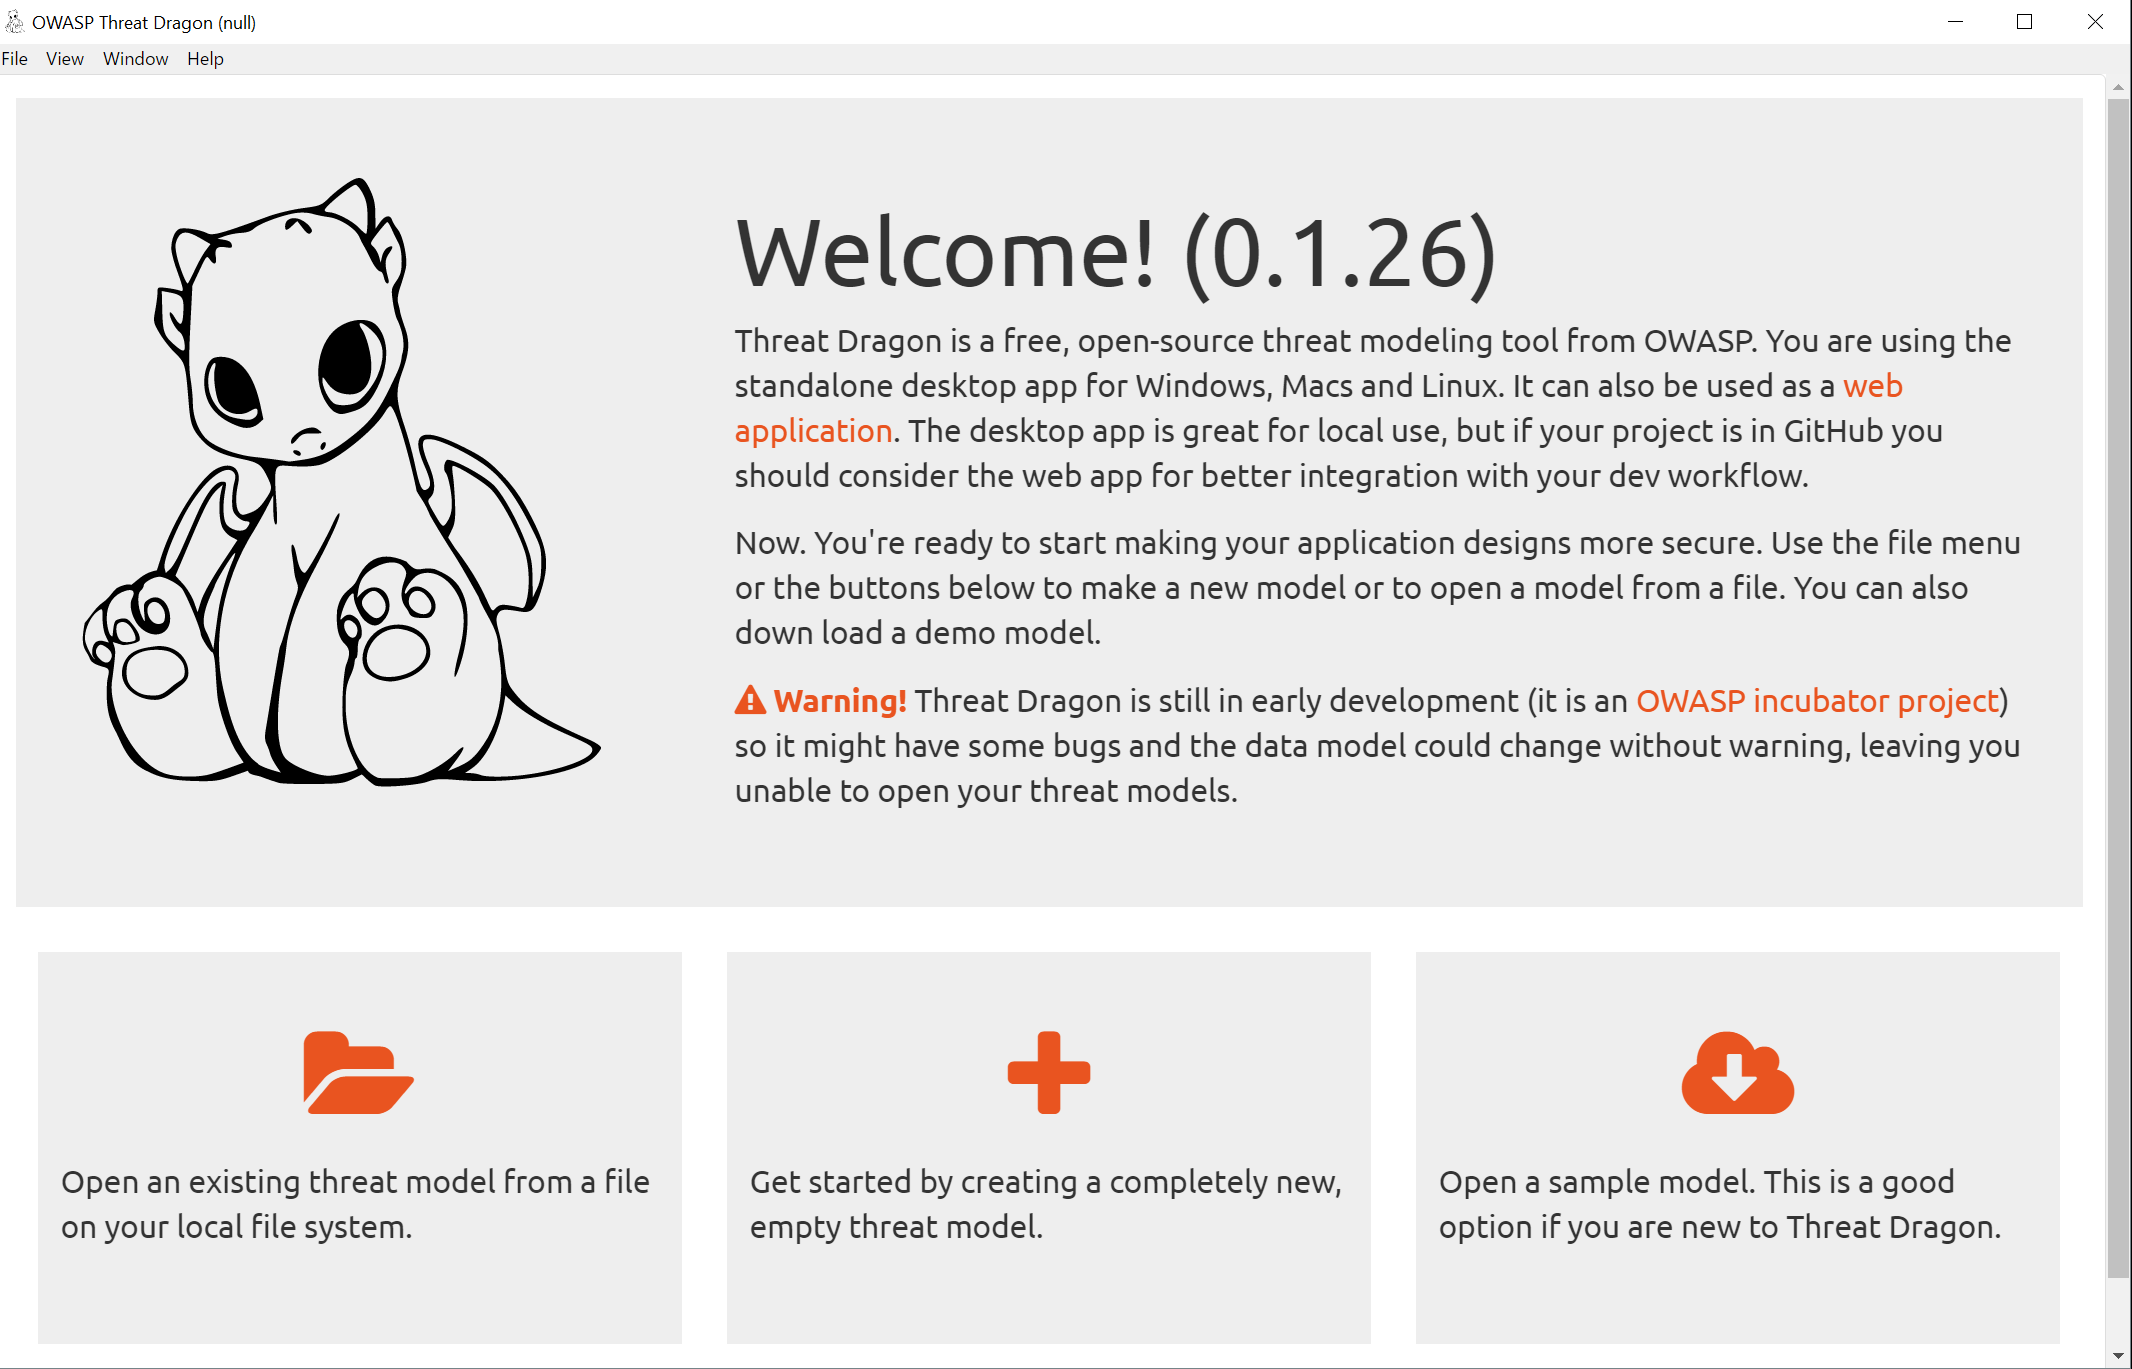
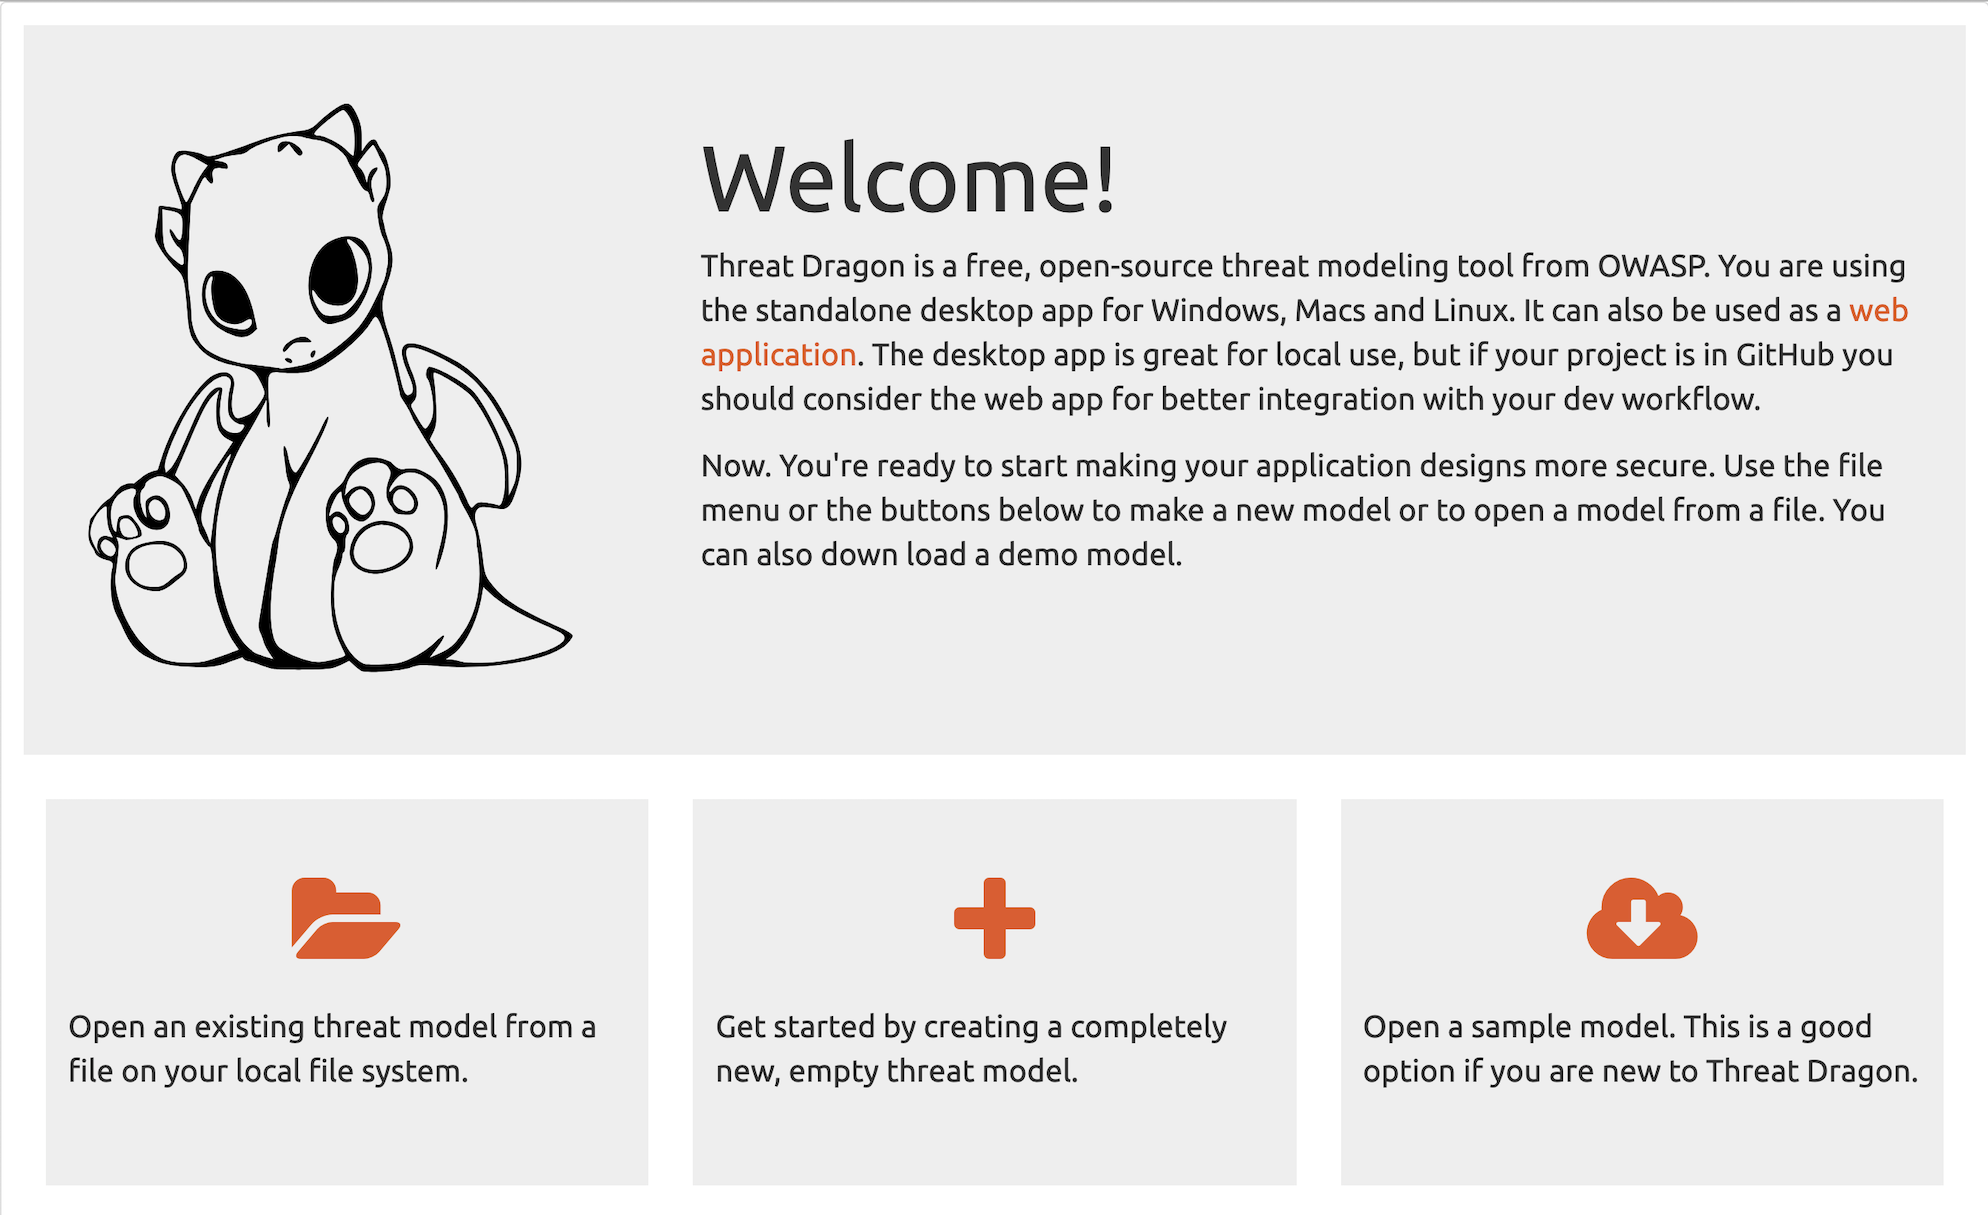
removed warning message from text and screenshot

diff --git a/app/welcome/welcome.html b/app/welcome/welcome.html
@@ -2,7 +2,7 @@
     <row>
         <div class="jumbotron container-fluid">
             <div class="col-md-4">
-                <img class="img-responsive" src="./content/images/threatdragon_logo_image.svg" />
+                <img class="img-responsive" src="./content/images/threatdragon_logo_image.svg" alt="Threat Dragon Logo" />
             </div>
             <div class="col-md-8">
                 <h1>Welcome!</h1>
@@ -15,12 +15,6 @@
                 <p>
                     Now. You're ready to start making your application designs more secure. Use the file menu or the buttons below to make a
                     new model or to open a model from a file. You can also down load a demo model.
-                </p>
-                <p>
-                    <icon class="fa fa-exclamation-triangle text-primary"></icon> <strong class="text-primary">Warning!</strong> Threat Dragon is still in early development (it
-                    is an <a target="_blank" href="https://www.owasp.org/index.php/OWASP_Threat_Dragon">
-                OWASP incubator project</a>) so it might have some bugs and the data model could change without warning,
-                    leaving you unable to open your threat models.
                 </p>
             </div>
         </div>

diff --git a/README.md b/README.md
@@ -8,9 +8,13 @@
 
 # [OWASP](https://www.owasp.org) Threat Dragon #
 
-Threat Dragon is a free, open-source, cross-platform [threat modeling](https://www.owasp.org/index.php/Category:Threat_Modeling) application including system diagramming and a rule engine to auto-generate threats/mitigations. It is an [OWASP Incubator Project](https://www.owasp.org/index.php/OWASP_Threat_Dragon). The focus of the project is on great UX, a powerful rule engine and integration with other development lifecycle tools.
+Threat Dragon is a free, open-source, cross-platform [threat modeling](https://owasp.org/www-community/Threat_Modeling)
+application including system diagramming and a rule engine to auto-generate threats/mitigations. It is an
+[OWASP Incubator Project](https://owasp.org/www-project-threat-dragon/). The focus of the project is on great UX,
+a powerful rule engine and integration with other development lifecycle tools.
 
-There is a good overview of [threat modeling and risk assessment](https://www.owasp.org/index.php/Application_Threat_Modeling) from OWASP, and this expands on what Threat Dragon will achieve: 
+There is a good overview of [threat modeling and risk assessment](https://owasp.org/www-community/Application_Threat_Modeling)
+from OWASP, and this expands on what Threat Dragon will achieve: 
 * designing the data flow diagram
 * automatic determining and ranking threats
 * suggested mitigations
@@ -18,9 +22,13 @@ There is a good overview of [threat modeling and risk assessment](https://www.ow
 
 The application comes in two variants:
 
-1. [**A web application**](https://github.com/mike-goodwin/owasp-threat-dragon): For the web application, models files are stored in GitHub (other storage will become available). We are currently maintaining [a working protoype](https://threatdragon.org) in synch with the master code branch.
+1. [**A web application**](https://github.com/mike-goodwin/owasp-threat-dragon): For the web application, models files
+are stored in GitHub (other storage will become available). We are currently maintaining [a working protoype](https://threatdragon.org)
+in synch with the master code branch.
 
-2. [**A desktop application**](https://github.com/mike-goodwin/owasp-threat-dragon-desktop): This is based on [Electron](https://electron.atom.io/). There are installers available for both Windows and Mac OSX, as well as rpm and debian packages for Linux. For this variant models are stored on the local filesystem.
+2. [**A desktop application**](https://github.com/mike-goodwin/owasp-threat-dragon-desktop): This is based on
+[Electron](https://electron.atom.io/). There are installers available for both Windows and Mac OSX, as well as rpm and
+debian packages for Linux. For the desktop variant models are stored on the local filesystem.
 
 [End user help](http://docs.threatdragon.org/) is available for both variants.
 
@@ -38,7 +46,9 @@ Then to run it:
 
 `npm run start`
 
-Installers for OSX and Windows can be downloaded from the [releases folder](https://github.com/mike-goodwin/owasp-threat-dragon-desktop/releases), along with released packages for AMD64 / X86-64bit Debian and Fedora Linux.
+Installers for OSX and Windows can be downloaded from the
+[releases folder](https://github.com/mike-goodwin/owasp-threat-dragon-desktop/releases).
+In there you can also find packages for both Debian and Fedora Linux on AMD64 and X86-64bit platforms.
 
 # Screenshots # 
 
@@ -56,12 +66,14 @@ And the threat editing screen
 
 # Contributing #
 
-PRs, feature requests, bug reports and feedback of any kind are very welcome. We are trying to keep the test coverage relatively high, so please try to include tests in any PRs and make PRs on the development branch.
+PRs, feature requests, bug reports and feedback of any kind are very welcome. We are trying to keep the test coverage
+relatively high, so please try to include tests in any PRs and make PRs on the development branch.
 
 
 # Vulnerability disclosure #
 
-If you find a vulnerability in this project please let us know ASAP and we will fix it as a priority. For secure disclosure, please email mike.goodwin@owasp.org using the following PGP key:
+If you find a vulnerability in this project please let us know ASAP and we will fix it as a priority.
+For secure disclosure, please email mike.goodwin@owasp.org using the following PGP key:
 
 ```-----BEGIN PGP PUBLIC KEY BLOCK-----
 Version: FlowCrypt 5.1.8 Gmail Encryption flowcrypt.com
